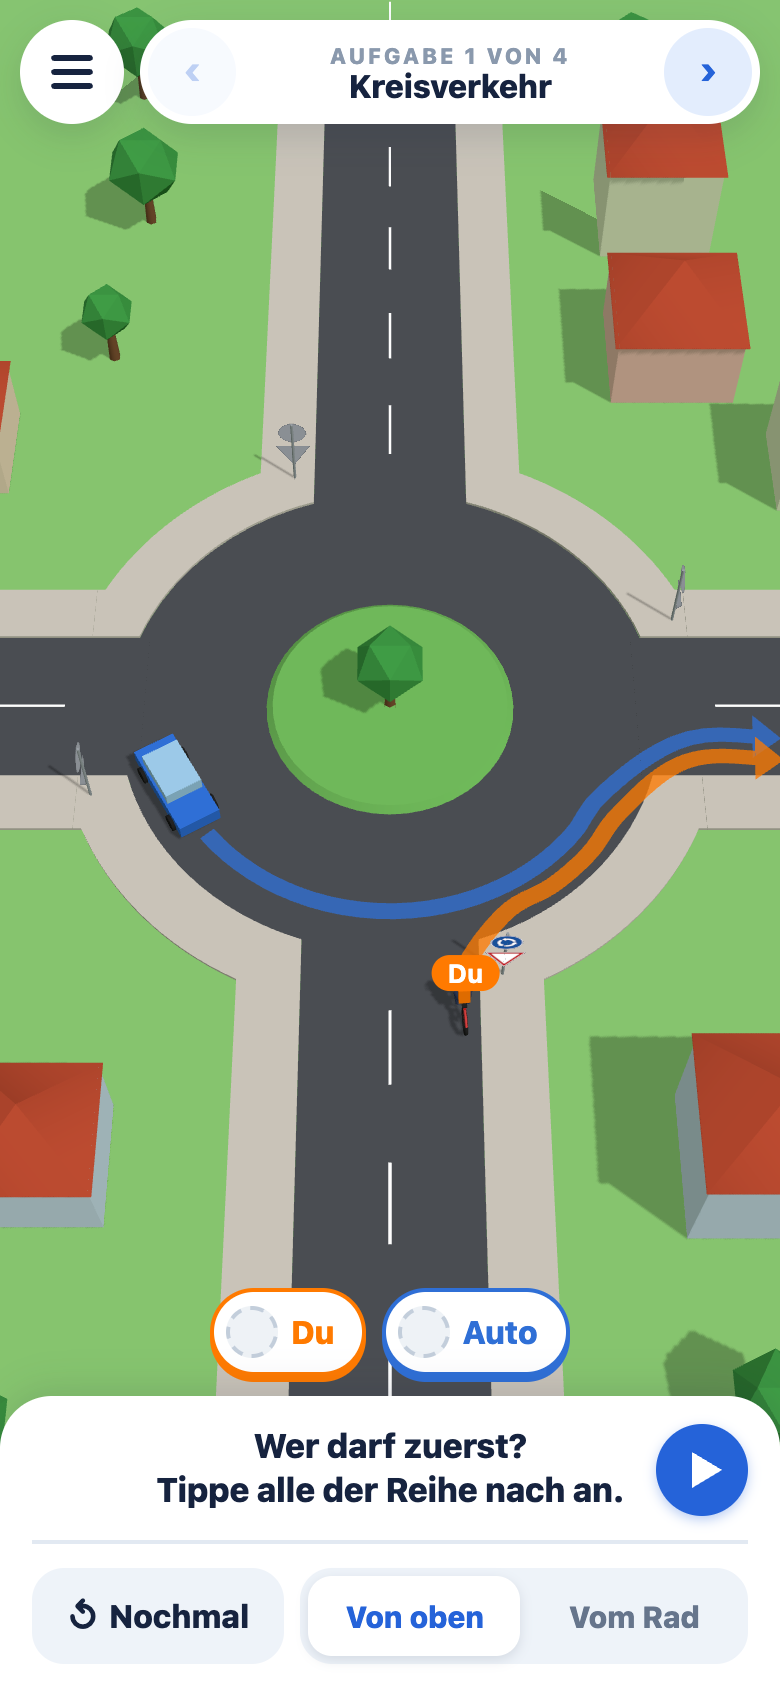
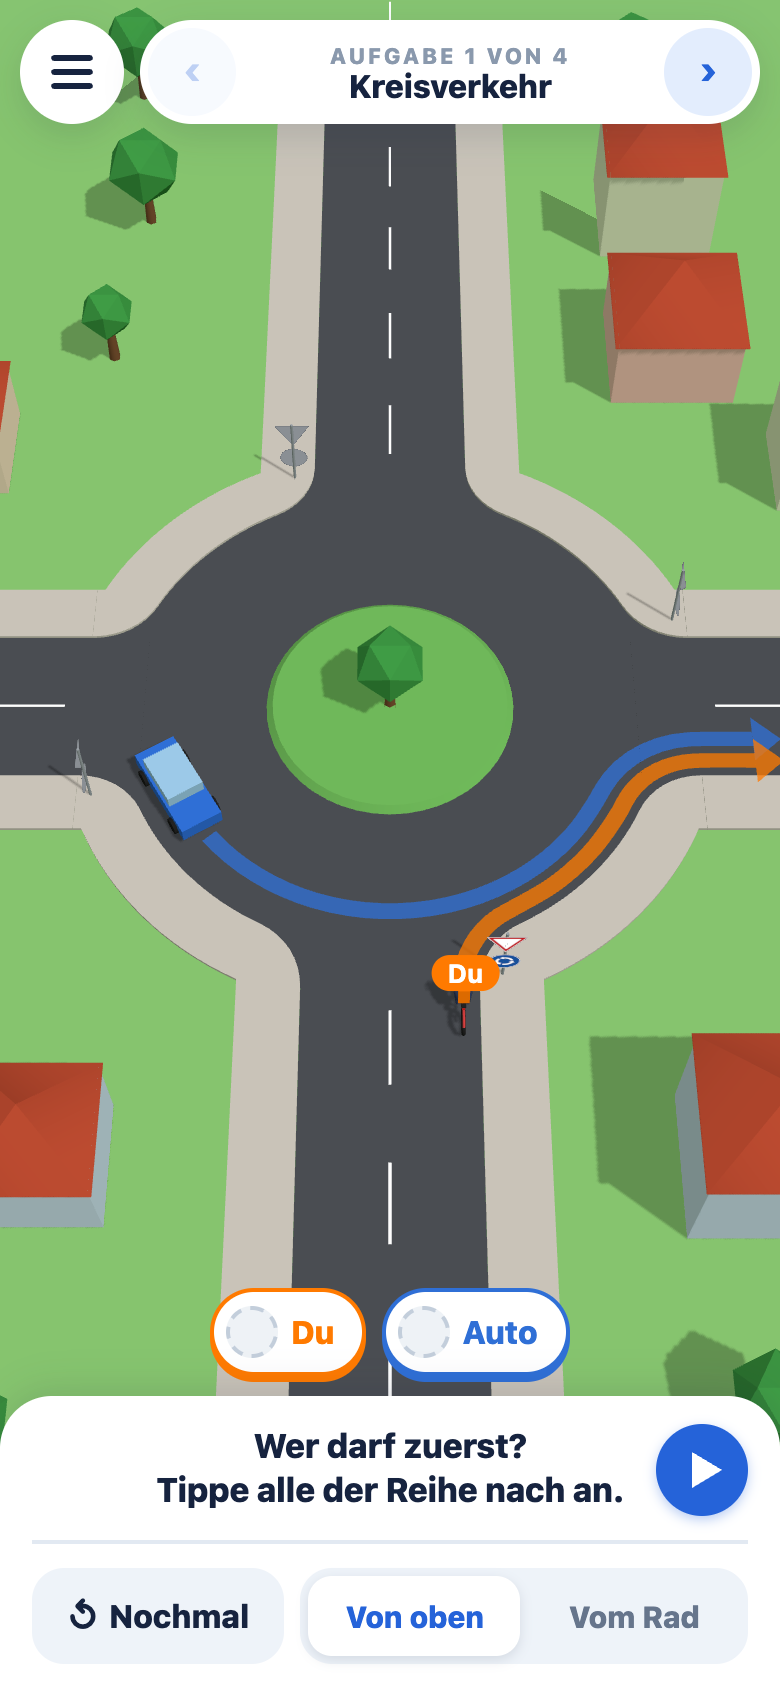
fix(content): give-way sign above the roundabout sign
intent(roundabout-signs): 205 usually hangs above 215 on the post; user asked to switch it everywhere
decision(roundabout-signs): same order on the rule card; README roundabout screenshot retaken (also shows the rounded entries now)

diff --git a/src/content/scenarios.ts b/src/content/scenarios.ts
@@ -22,7 +22,7 @@ const lights = (ns: Phase, ew: Phase, extra: Partial<Record<Arm, ArmSpec>> = {})
 };
 const roundabout: Layout = {
   roundabout: true,
-  arms: { N: { signs: ["215", "205"] }, E: { signs: ["215", "205"] }, S: { signs: ["215", "205"] }, W: { signs: ["215", "205"] } },
+  arms: { N: { signs: ["205", "215"] }, E: { signs: ["205", "215"] }, S: { signs: ["205", "215"] }, W: { signs: ["205", "215"] } },
 };
 const bend = (priority: [Arm, Arm]): Layout => ({
   priority,

diff --git a/src/content/rules.ts b/src/content/rules.ts
@@ -108,7 +108,7 @@ export const rules: RuleCard[] = [
     id: "kreisverkehr",
     title: "Kreisverkehr",
     text: "Wer schon im Kreisverkehr fährt, hat Vorfahrt. Beim Hineinfahren gibst du kein Zeichen. Beim Hinausfahren zeigst du mit dem rechten Arm, dass du abbiegst.",
-    signs: ["215", "205"],
+    signs: ["205", "215"],
     source: "§ 8 Abs. 1a und § 9 Abs. 1 StVO",
     url: `${STVO}__8.html`,
   },
